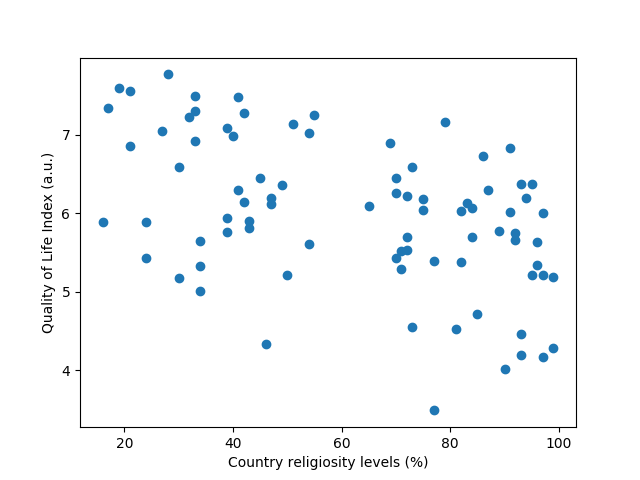
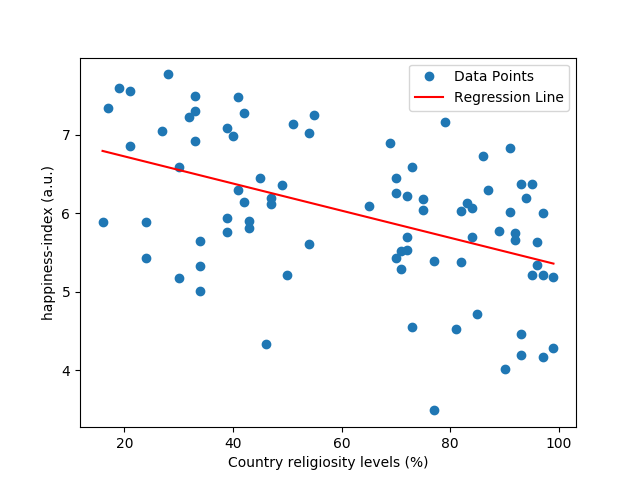
analysis: added regression line function

diff --git a/scripts/plot.py b/scripts/plot.py
@@ -1,5 +1,7 @@
 import csv
+import numpy as np
 import matplotlib.pyplot as plt
+from scipy.stats import linregress
 
 
 def compare_names(str1, str2):
@@ -34,27 +36,41 @@ def convert_to_number(str_float):
 
 
 def extract_name_from_file(filename):
+    """Extract a name from the filename."""
     return filename[8:-4]
 
 
-def default_plot(x, y, txt, file_name="test.png", annotate=False, ylabel=None):
+def default_plot(x, y, txt, regression_x=None, regression_y=None, file_name="test.png", annotate=False, ylabel=None):
     """Plot the data sets with some default parameters."""
     fig, ax = plt.subplots()
     ax.plot(x, y, 'o')
 
     plt.xlabel("Country religiosity levels (%)")
-    plt.ylabel("Quality of Life Index (a.u.)")
+    plt.ylabel(f"{ylabel} (a.u.)")
 
     if annotate:
         for i in range(len(txt)):
             ax.annotate(txt[i], (x[i], y[i]),
                         textcoords="offset points",  # how to position the text
-                        xytext=(-10,-10),  # distance from text to points (x,y)
+                        xytext=(-10, -10),  # distance from text to points (x,y)
                         ha='left',  # horizontal alignment can be left, right or center
                         )
 
+    plt.plot(regression_x, regression_y, '-r')
+    ax.legend(['Data Points', 'Regression Line'])
+
     fig.savefig(file_name)
     plt.show()
+
+
+def regression_points(x, y):
+    """Find regression line"""
+    gradient, intercept, r_value, p_value, std_err = linregress(x, y)
+    mn = np.min(x)
+    mx = np.max(x)
+    x1 = np.linspace(mn, mx, 500)
+    y1 = gradient * x1 + intercept
+    return x1, y1
 
 
 def main(data_file1, data_file2, file_name, annotate=False, to_plot=True, data_feature=None):
@@ -64,7 +80,7 @@ def main(data_file1, data_file2, file_name, annotate=False, to_plot=True, data_f
     data_religiosity_levels = list()
     data_education_index = list()
 
-    # Open data flesconvert_to_number
+    # Open data and convert_to_number
     with open(data_file1) as csv_file_1:
         with open(data_file2) as csv_file_2:
 
@@ -113,10 +129,14 @@ def main(data_file1, data_file2, file_name, annotate=False, to_plot=True, data_f
                     elif result == "overpassed":
                         break
 
+    # Find regression lines
+    x, y = regression_points(data_religiosity_levels, data_education_index)
+
     # Plot
     ylabel = extract_name_from_file(data_file2)
     if to_plot:
         default_plot(data_religiosity_levels, data_education_index, data_countries,
+                     regression_x=x, regression_y=y,
                      file_name=file_name, annotate=annotate, ylabel=ylabel)
 
     print(data_countries)
@@ -124,6 +144,6 @@ def main(data_file1, data_file2, file_name, annotate=False, to_plot=True, data_f
 
 
 if __name__ == "__main__":
-    main('../data/religiosity-levels.csv', '../data/happiness-index.csv',
+    main('../data/religiosity-levels.csv', '../data/Happiness-index.csv',
          data_feature='Score',
          file_name="../figures/happiness-index.png")
